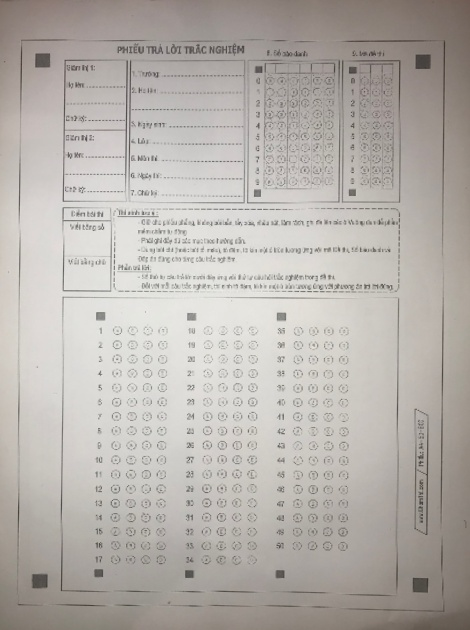
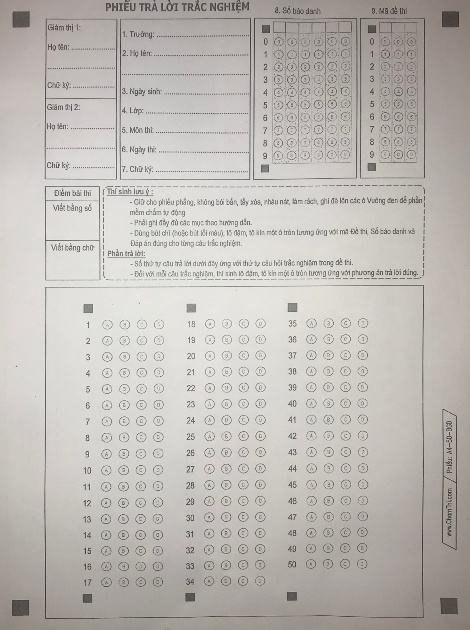
user img original size instead of resizing

diff --git a/document_scanner.py b/document_scanner.py
@@ -21,7 +21,7 @@ NUM_SHRINKING_PIXEL = 5
 
 class DocumentScanner:
     def __init__(self,
-                 img_size=(IMG_WIDTH, IMG_HEIGHT),
+                 target_img_size=(IMG_WIDTH, IMG_HEIGHT),
                  canny_sigma=CANNY_SIGMA,
                  dilate_kernel=DILATE_KERNEL,
                  erode_kernel=ERODE_KERNEL,
@@ -31,7 +31,7 @@ class DocumentScanner:
                  contour_method=CONTOUR_METHOD,
                  min_contour_area=utils.MIN_CONTOUR_AREA,
                  num_shrinking_pixel=NUM_SHRINKING_PIXEL):
-        self.__img_width, self.__img_height = img_size
+        self.__img_width, self.__img_height = target_img_size
         self.__canny_sigma = canny_sigma
         self.__dilate_kernel = dilate_kernel
         self.__erode_kernel = erode_kernel
@@ -42,23 +42,21 @@ class DocumentScanner:
         self.__min_contour_area = min_contour_area
         self.__num_shrinking_pixel = num_shrinking_pixel
 
-    def scan_document(self, img_source):
-        img = cv2.imread(img_source)
-        imgResized = cv2.resize(img, (self.__img_width, self.__img_height))
-        imgProcessed = self.__process_img(imgResized)
-        biggest_contour_approx = self.__find_biggest_contour(imgProcessed, img)
-        imgWarped = self.__warp_image(imgResized, biggest_contour_approx)
+    def scan_document(self, img):
+        imgProcessed = self.__process_img(img)
+        biggest_contour_approx = self.__find_biggest_contour(imgProcessed)
+        imgWarped = self.__warp_image(img, biggest_contour_approx)
         return imgWarped
 
     def __process_img(self, img):
         imgGray = cv2.cvtColor(img, cv2.COLOR_BGR2GRAY)  # convert to gray scale
-        imgBlur = cv2.GaussianBlur(imgGray, self.__gaussian_blur_kernel_size, self.__gaussian_blur_border_type)
+        imgBlur = cv2.GaussianBlur(imgGray, self.__gaussian_blur_kernel_size, self.__gaussian_blur_border_type, 0)
         imgEdged = utils.auto_canny(imgBlur, self.__canny_sigma)
         imgDilated = cv2.dilate(imgEdged, kernel=self.__dilate_kernel, iterations=2)
         imgEroded = cv2.erode(imgDilated, kernel=self.__erode_kernel, iterations=1)
         return imgEroded
 
-    def __find_biggest_contour(self, img, img_org):
+    def __find_biggest_contour(self, img):
         try:
             contours, hierarchy = cv2.findContours(img, self.__contour_mode, self.__contour_method)
             biggestContourApprox, maxArea = utils.find_biggest_contour_approx(contours, self. __min_contour_area)
@@ -72,7 +70,7 @@ class DocumentScanner:
         warped_perspective = np.float32([[0, 0], [self.__img_width, 0],
                                          [0, self.__img_height], [self.__img_width, self.__img_height]])
         transform_matrix = cv2.getPerspectiveTransform(contour_perspective, warped_perspective)
-        imgWarped = cv2.warpPerspective(img, transform_matrix, (IMG_WIDTH, IMG_HEIGHT))
+        imgWarped = cv2.warpPerspective(img, transform_matrix, (self.__img_width, self.__img_height))
         # correction
         imgWarped = imgWarped[self.__num_shrinking_pixel:imgWarped.shape[0] - self.__num_shrinking_pixel,
                               self.__num_shrinking_pixel:imgWarped.shape[1] - self.__num_shrinking_pixel]

diff --git a/main.py b/main.py
@@ -1,18 +1,21 @@
 from document_scanner import DocumentScanner
 import os
-from cv2 import imshow, waitKey, imwrite
 
-document_scanner = DocumentScanner(canny_sigma=0.78)
+import cv2
+
+document_scanner = DocumentScanner(canny_sigma=0.8)
 
 sample_folder = "sample"
 result_folder = "result"
 
-file_name = "sample2.jpg"
+file_name = "sample1.jpg"
 sample_img_path = os.path.join(sample_folder, file_name)
-img = document_scanner.scan_document(sample_img_path)
+original_img = cv2.imread(sample_img_path)
+img = document_scanner.scan_document(original_img)
 
-imshow("Result", img)
-waitKey(0)
+
+cv2.imshow("Result", img)
+cv2.waitKey(0)
 
 result_img_path = os.path.join(result_folder, file_name)
-imwrite(result_img_path, img)
+cv2.imwrite(result_img_path, img)
